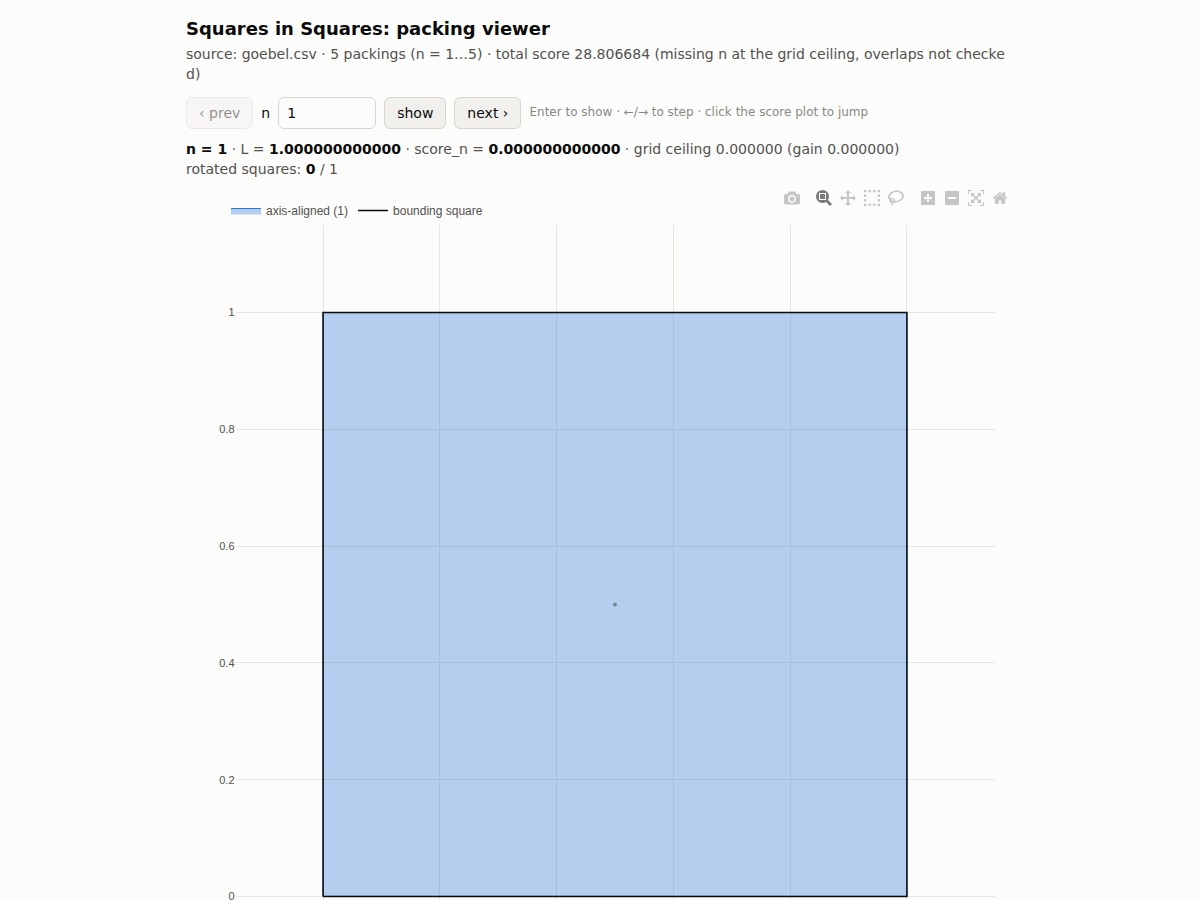
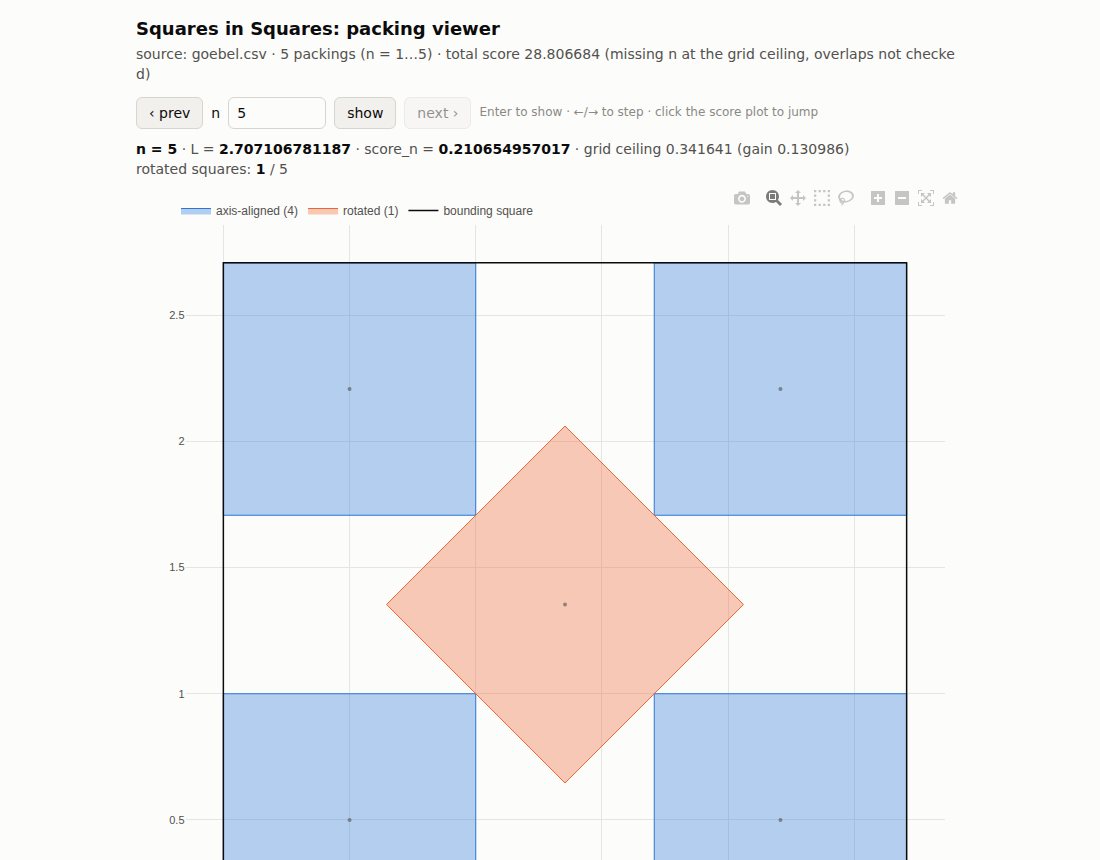
README: screenshot at n=5 (Göbel), deep-link note
Claude-Session: https://claude.ai/code/session_01PAamMMnHqWVjsaMMa3nXnh

diff --git a/README.md b/README.md
@@ -13,7 +13,7 @@ corners), computed in float64 rather than mpmath.
 ## Live demo
 
 - Full competition baseline (1000 grid packings, the official `sample_submission.csv`): **https://rusiek.github.io/squares-in-squares-vis/**
-- Tiny example with a rotated square (Göbel's n = 5, L = 2 + 1/√2): **https://rusiek.github.io/squares-in-squares-vis/goebel.html**
+- Tiny example with a rotated square (Göbel's n = 5, L = 2 + 1/√2): **https://rusiek.github.io/squares-in-squares-vis/goebel.html** (deep link to a puzzle: append `#n=5`)
 
 Both pages are exactly what `sis-vis` produces (`--cdn` variant); sources in `docs/`.
 
